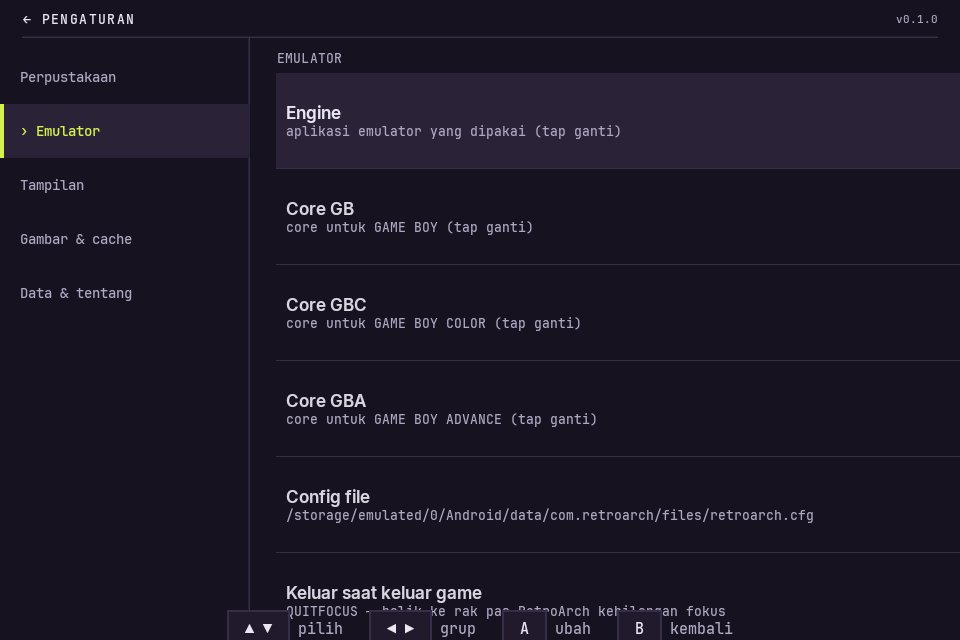
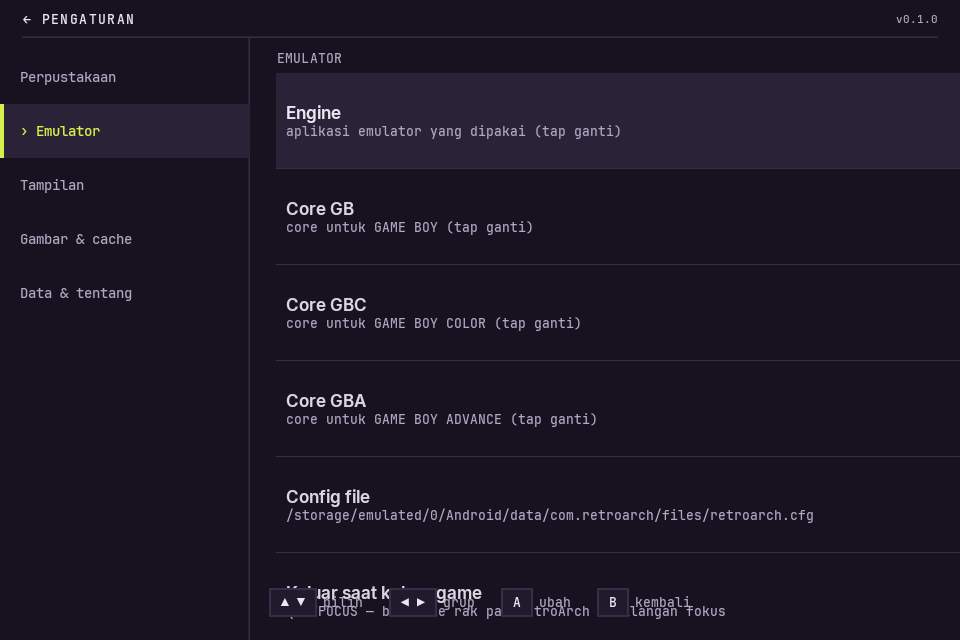
desain v3.5: TEXT_SCALE 1.25 global, fix hint bar overflow, picker centered, folder list scroll, preview pipeline + audit

Changed region(s): [[0.25, 0.9062, 0.625, 1.0], [0.625, 0.9062, 0.75, 1.0]]

diff --git a/android/app/src/main/java/id/iqbaldev/kartrid/ui/FolderPicker.kt b/android/app/src/main/java/id/iqbaldev/kartrid/ui/FolderPicker.kt
@@ -10,12 +10,14 @@ import androidx.compose.foundation.layout.Arrangement
 import androidx.compose.foundation.layout.Box
 import androidx.compose.foundation.layout.Column
 import androidx.compose.foundation.layout.Row
+import androidx.compose.foundation.rememberScrollState
 import androidx.compose.foundation.layout.fillMaxWidth
 import androidx.compose.foundation.layout.height
 import androidx.compose.foundation.layout.offset
 import androidx.compose.foundation.layout.padding
 import androidx.compose.foundation.layout.size
 import androidx.compose.foundation.layout.width
+import androidx.compose.foundation.verticalScroll
 import androidx.compose.material3.Text
 import androidx.compose.runtime.Composable
 import androidx.compose.runtime.LaunchedEffect
@@ -139,8 +141,13 @@ fun FolderPicker(
             )
             Box(Modifier.height(12.dp))
 
-            // daftar
-            Column(Modifier.fillMaxWidth()) {
+            // daftar (scroll: jangan dorong tombol keluar panel kalau folder banyak)
+            Column(
+                Modifier
+                    .fillMaxWidth()
+                    .weight(1f)
+                    .verticalScroll(rememberScrollState()),
+            ) {
                 PickerRow(".. (naik satu folder)", sel == 0) { sel = 0; up() }
                 dirs.forEachIndexed { i, d ->
                     PickerRow("${d.name}/", sel == i + 1) {

diff --git a/android/app/src/main/java/id/iqbaldev/kartrid/ui/ShelfScreen.kt b/android/app/src/main/java/id/iqbaldev/kartrid/ui/ShelfScreen.kt
@@ -328,7 +328,7 @@ fun ShelfScreen(
         Column(
             Modifier
                 .fillMaxWidth()
-                .offset(y = 524.dp),
+                .offset(y = 508.dp),
             horizontalAlignment = Alignment.CenterHorizontally,
         ) {
             if (current != null) {
@@ -428,18 +428,18 @@ internal fun HintItem(key: String, label: String) {
             Modifier
                 .border(1.5.dp, T.hairline)
                 .background(T.surface)
-                .padding(horizontal = 12f.tdp, vertical = 6f.tdp),
+                .padding(horizontal = 8f.tdp, vertical = 4f.tdp),
         ) {
-            Text(key, color = T.fg, fontFamily = MONO, fontSize = 15.sp)
+            Text(key, color = T.fg, fontFamily = MONO, fontSize = 13.sp)
         }
-        Box(Modifier.width(8.dp))
-        Text(label, color = T.mutedFg, fontFamily = MONO, fontSize = 15.sp)
+        Box(Modifier.width(6.dp))
+        Text(label, color = T.mutedFg, fontFamily = MONO, fontSize = 13.sp)
     }
 }
 
 @Composable
 private fun ListSpacer() {
-    Box(Modifier.width(30.dp))
+    Box(Modifier.width(18.dp))
 }
 
 @Composable

diff --git a/android/app/src/main/java/id/iqbaldev/kartrid/ui/SettingsScreen.kt b/android/app/src/main/java/id/iqbaldev/kartrid/ui/SettingsScreen.kt
@@ -354,9 +354,9 @@ fun SettingsScreen(
 
         // hint
         Row(
-            Modifier
-                .fillMaxWidth()
-                .offset(y = 610.dp),
+                        Modifier
+                            .fillMaxWidth()
+                            .offset(y = 588.dp),
             horizontalArrangement = Arrangement.Center,
         ) {
             HintItem("▲ ▼", "pilih")
@@ -481,12 +481,13 @@ private fun PickerOverlay(
     val maxRows = 7
     val start = (selected - 2).coerceIn(0, (options.size - maxRows).coerceAtLeast(0))
     val visible = options.slice(start until (start + maxRows).coerceAtMost(options.size))
+    val boxH = (visible.size * 72 + 116).coerceAtMost(560)
 
     Box(Modifier.size(960.dp, 640.dp).background(T.bg.copy(alpha = 0.93f)))
     Column(
         Modifier
-            .offset(x = 270.dp, y = 110.dp)
-            .size(420.dp, (visible.size * 64 + 96).dp)
+            .offset(x = 250.dp, y = ((640 - boxH) / 2f).dp)
+            .size(460.dp, boxH.dp)
             .background(T.surface)
             .border(1.5.dp, T.hairline)
             .padding(16.dp),

diff --git a/android/app/src/main/java/id/iqbaldev/kartrid/ui/Theme.kt b/android/app/src/main/java/id/iqbaldev/kartrid/ui/Theme.kt
@@ -63,6 +63,13 @@ const val TOUCH = 1.5f
 val Float.tdp: Dp get() = (this * TOUCH).dp
 
 /**
+ * sp yang digambar 1:1 px sama kayak body text yang "terlalu kecil" secara
+ * persepsi di layar 240dpi. Naikkan global supaya teks kebaca seperti app
+ * normal (17sp terasa 17sp, bukan 17px).
+ */
+const val TEXT_SCALE = 1.25f
+
+/**
  * Kanvas desain 960x640 px (layar KONKR Pocket Advance).
  * Density di-override supaya 1.dp == 1 px mockup — jadi semua angka di kode
  * sama persis dengan mockup. Di layar lain seluruh UI di-scale proporsional
@@ -80,7 +87,7 @@ fun MockCanvas(content: @Composable () -> Unit) {
         val sw = if (wPx > 0f) wPx / BASE_W else 1f
         val sh = if (hPx > 0f) hPx / BASE_H else sw
         val scale = minOf(sw, sh).coerceAtLeast(0.05f)
-        CompositionLocalProvider(LocalDensity provides Density(scale, 1f)) {
+        CompositionLocalProvider(LocalDensity provides Density(scale, TEXT_SCALE)) {
             Box(modifier = Modifier.size(BASE_W.dp, BASE_H.dp)) { content() }
         }
     }

diff --git a/android/app/src/main/java/id/iqbaldev/kartrid/ui/ListScreen.kt b/android/app/src/main/java/id/iqbaldev/kartrid/ui/ListScreen.kt
@@ -46,7 +46,7 @@ import kotlinx.coroutines.Dispatchers
 import kotlinx.coroutines.withContext
 
 private const val ROWS = 8
-private const val ROW_H = 80f
+private const val ROW_H = 72f
 
 /**
  * S3 Cari & Daftar — versi D-pad: daftar berjendela + rail A–Z.
@@ -249,7 +249,7 @@ fun ListScreen(
         Row(
             Modifier
                 .fillMaxWidth()
-                .offset(y = 610.dp),
+                .offset(y = 592.dp),
             horizontalArrangement = Arrangement.Center,
         ) {
             HintItem("▲ ▼", "geser")

diff --git a/android/app/src/test/java/id/iqbaldev/kartrid/PreviewTest.kt b/android/app/src/test/java/id/iqbaldev/kartrid/PreviewTest.kt
@@ -165,6 +165,15 @@ class PreviewTest {
         }
     }
 
+    @Test
+    fun permissionPreview() {
+        captureRoboImage("/home/iqbaladinur/hobbies/kartrid/previews/07-permission.png") {
+            MockCanvas {
+                PermPanel(onOpen = {}, onSkip = {})
+            }
+        }
+    }
+
     @Composable
     private fun settingsBlock(initialGroup: Int = 0, initialPick: String? = null) {
         SettingsScreen(

diff --git a/android/app/src/main/java/id/iqbaldev/kartrid/MainActivity.kt b/android/app/src/main/java/id/iqbaldev/kartrid/MainActivity.kt
@@ -425,7 +425,7 @@ private fun KartridRoot(
 }
 
 @Composable
-private fun PermPanel(onOpen: () -> Unit, onSkip: () -> Unit) {
+internal fun PermPanel(onOpen: () -> Unit, onSkip: () -> Unit) {
     Box(Modifier.fillMaxWidth().offset(y = 240.dp).padding(horizontal = 210.dp)) {
         Column(
             Modifier
